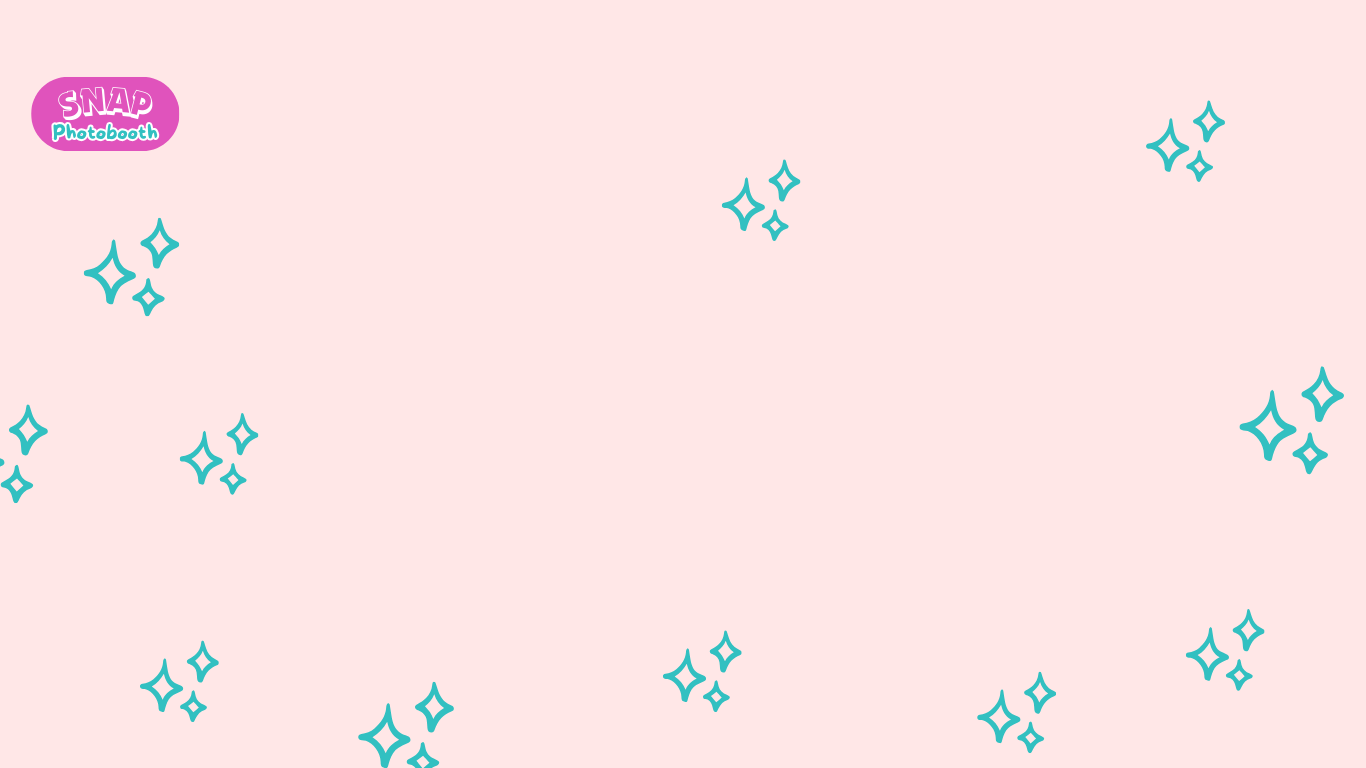
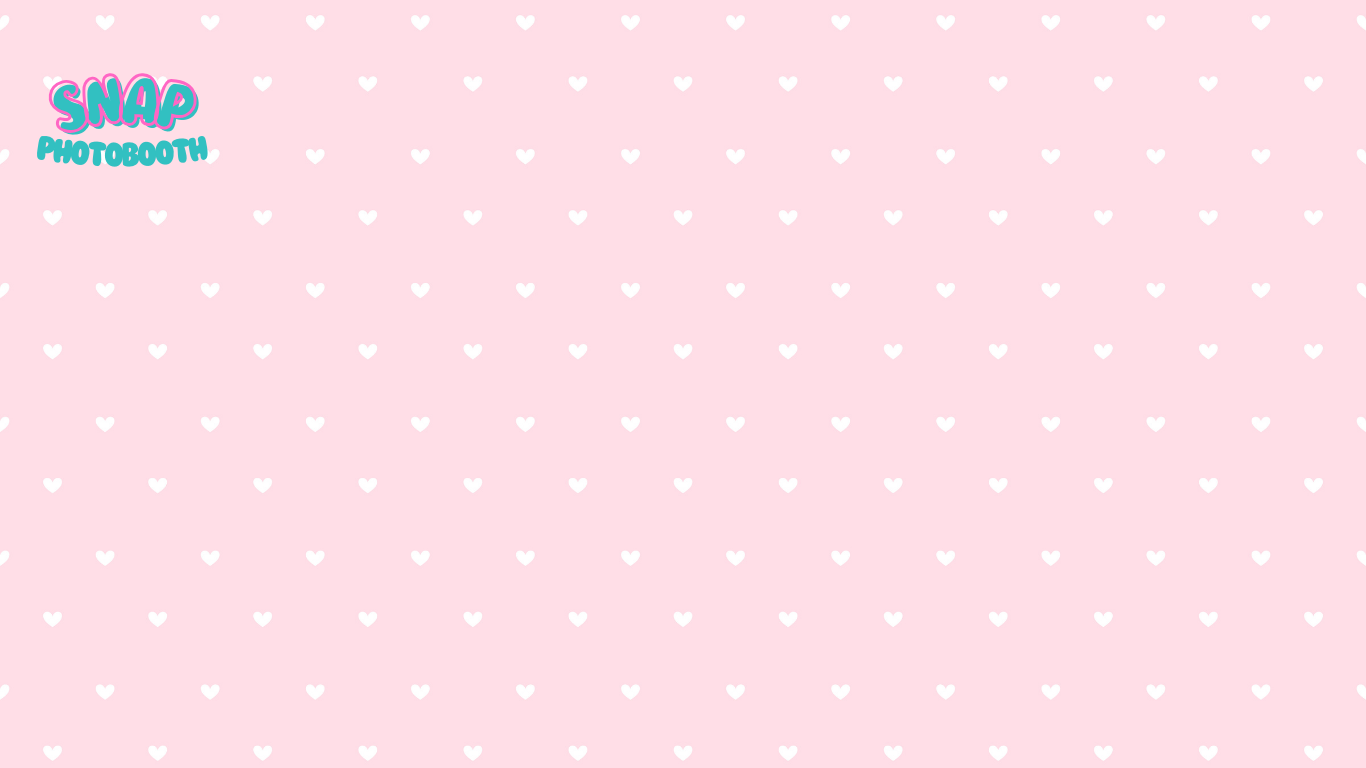
fixed, UI, buttons

diff --git a/src/EditPage.js b/src/EditPage.js
@@ -84,9 +84,11 @@ const EditPage = () => {
   };
 
   return (
+    <div className="edit-page">
+
     <div className="edit-container">
     <div className="left-panel">
-      <h2>Edit Preview</h2>
+      <h2>Edit Your Photo</h2>
   
       <label>
         Background Color:
@@ -140,6 +142,12 @@ const EditPage = () => {
         <p style={{ fontSize: '12px', color: '#666' }}>Click on image to place text</p>
       </div>
   
+      <button onClick={() => setDeleteMode(!deleteMode)}>
+        {deleteMode ? 'Exit Delete Mode' : 'Delete Mode'}
+      </button>
+  
+      <button onClick={downloadAllImagesAsOne}>Download Image</button>
+      {/* <button onClick={saveToDatabase}>Save to Database</button> */}
     </div>
   
     <div className="right-panel">
@@ -214,10 +222,8 @@ const EditPage = () => {
         ))}
       </div>
     </div>
-  
+  </div>
 
-      <button onClick={downloadAllImagesAsOne}>Download All as One Image</button>
-      <button onClick={saveToDatabase}>Save to Database</button>
     </div>
   );
 };

diff --git a/src/App.css b/src/App.css
@@ -11,6 +11,7 @@
 }
 
 
+
 .content-wrapper {
   display: flex;
   flex-wrap: wrap;
@@ -158,7 +159,7 @@
   gap: 20px;
   padding: 20px;
   margin-left: 5rem;
-  margin-top: 5rem;
+  margin-top: 3rem;
 }
 
 .left-panel {
@@ -183,4 +184,16 @@
   max-width: 250px;
   height: 40rem;
   margin-left: 6rem;
+}
+
+.edit-page {
+  min-height: 100vh;
+  display: flex;
+  justify-content: center;
+  align-items: center;
+  background-image: url('images/snap.png'); 
+  background-size: cover;
+  background-position: center;
+  padding: 2rem;
+  box-sizing: border-box;
 }
